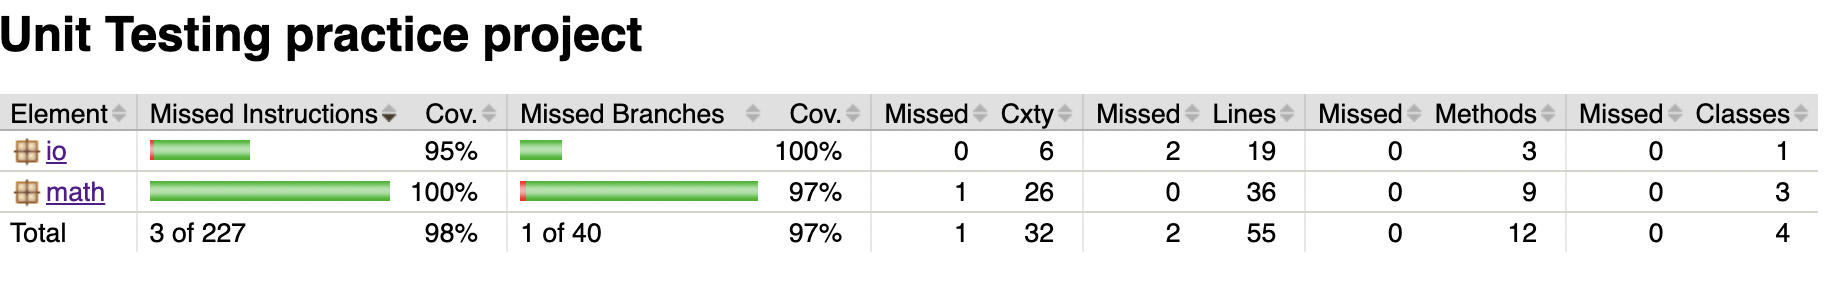
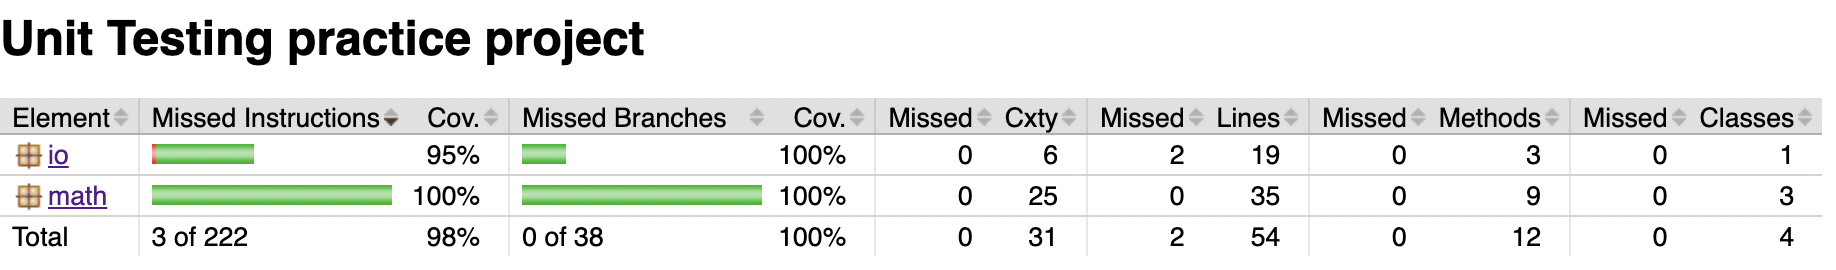
Add tests regarding ArrayOperations class and update code style

Changed region(s): [[0.0, 0.3259, 0.9935, 0.9185], [0.0, 0.0593, 0.3725, 0.237], [0.9624, 0.5333, 0.9935, 0.563]]

diff --git a/unittesting/src/test/java/math/ArrayOperationsTest.java b/unittesting/src/test/java/math/ArrayOperationsTest.java
@@ -27,7 +27,6 @@ public class ArrayOperationsTest {
 	
 	private final ArrayOperations aot = new ArrayOperations();
 	
-	
 	/*
 	 * A unit test verifying that the program reads a file
 	 * with numbers successfully and returns only the prime values
@@ -36,8 +35,8 @@ public class ArrayOperationsTest {
 	public void test_getPrimes_Mocking() {
 		String filepath = "vardata.txt";
 		int[] expectedNumbers = new int[] {
-				2, 43, 99, 24, 39, 16, 13, 47
-			};
+				2,43,99,24,39,16,13,47
+		};
 		
 		// Mock the FileIO dependency
 		FileIO fio = mock(FileIO.class);
@@ -54,8 +53,66 @@ public class ArrayOperationsTest {
 		when(mm.isPrime(13)).thenReturn(true);
 		when(mm.isPrime(47)).thenReturn(true);
 		
-		int[] expectedPrimeNumbers = {2, 43, 13, 47};
+		int[] expectedPrimeNumbers = {2,43,13,47};
 		
 		assertArrayEquals(expectedPrimeNumbers, aot.findPrimesInFile(fio, filepath, mm));
+	}
+	
+	/*
+	 * A test case for the exceptions caused when the
+	 * given file does not contain any numbers.
+	 */
+	@Test(expected = IllegalArgumentException.class)
+	public void test_getPrimes_FileIsEmpty_Mocking() throws IllegalArgumentException {
+		String filepath = "empty.txt";
+		
+		// Mock the FileIO dependency
+		FileIO fio = mock(FileIO.class);
+		when(fio.readFile(filepath)).thenThrow(IllegalArgumentException.class);
+		
+		// Mock the MyMath dependency
+		MyMath mm = mock(MyMath.class);
+		
+		aot.findPrimesInFile(fio, filepath, mm);
+	}
+	
+	/*
+	 * A test case for the exceptions caused when
+	 * the given file doesn't exist.
+	 */
+	@Test(expected = IllegalArgumentException.class)
+	public void test_getPrimes_FileDoesNotExist_Mocking() throws IllegalArgumentException {
+		String filepath = "invalid.txt";
+		
+		// Mock the FileIO dependency
+		FileIO fio = mock(FileIO.class);
+		when(fio.readFile(filepath)).thenThrow(IllegalArgumentException.class);
+		
+		// Mock the MyMath dependency
+		MyMath mm = mock(MyMath.class);
+		
+		aot.findPrimesInFile(fio, filepath, mm);
+	}
+	
+	/*
+	 * A test case for the exceptions caused when
+	 * argument's value is less than 2.
+	 */
+	@Test(expected = IllegalArgumentException.class)
+	public void test_getPrimes_ArgumentLessThanTwo_Mocking() throws IllegalArgumentException {
+		String filepath = "data.txt";
+		int[] expectedNumbers = new int[] {
+				14,28,-9,2,136,37,45,92,34,89
+		};
+		
+		// Mock the FileIO dependency
+		FileIO fio = mock(FileIO.class);
+		when(fio.readFile(filepath)).thenReturn(expectedNumbers);
+		
+		// Mock the MyMath dependency
+		MyMath mm = mock(MyMath.class);
+		when(mm.isPrime(-9)).thenThrow(IllegalArgumentException.class);
+		
+		aot.findPrimesInFile(fio, filepath, mm);
 	}
 }

diff --git a/unittesting/src/test/java/io/FileIOTest.java b/unittesting/src/test/java/io/FileIOTest.java
@@ -33,7 +33,7 @@ public class FileIOTest {
 	@Test
 	public void test_readFileNormalCase() {
 		int[] expectedNumbers = new int[] {
-			14, 28, -9, 2, 136, 37, 45, 92, 34, 89
+			14,28,-9,2,136,37,45,92,34,89
 		};
 		String validInputFilePath = resourcesPath.concat("data.txt");
 		
@@ -72,8 +72,8 @@ public class FileIOTest {
 	@Test
 	public void testReadFileContainsInvalidEntries() {
 			int[] expectedNumbers = new int[] {
-					2, 43, 99, 24, 39, 16, 13, 47
-				};
+					2,43,99,24,39,16,13,47
+			};
 				String validInputFilePath = resourcesPath.concat("vardata.txt");
 				
 				assertArrayEquals(expectedNumbers, fio.readFile(validInputFilePath));

diff --git a/unittesting/src/main/java/math/ArrayOperations.java b/unittesting/src/main/java/math/ArrayOperations.java
@@ -32,10 +32,8 @@ public class ArrayOperations {
 		List<Integer> primeNumbersList = new ArrayList<>();
 		int[] numbers = fileIo.readFile(filepath);
 		for (int i = 0; i < numbers.length; i++) {
-			if (numbers[i] >= 2) { // otherwise isPrime throws exception
-				if (myMath.isPrime(numbers[i])) {
-					primeNumbersList.add(numbers[i]);
-				}
+			if (myMath.isPrime(numbers[i])) {
+				primeNumbersList.add(numbers[i]);
 			}
 		}
 		return primeNumbersList.stream().mapToInt(i -> i).toArray();
